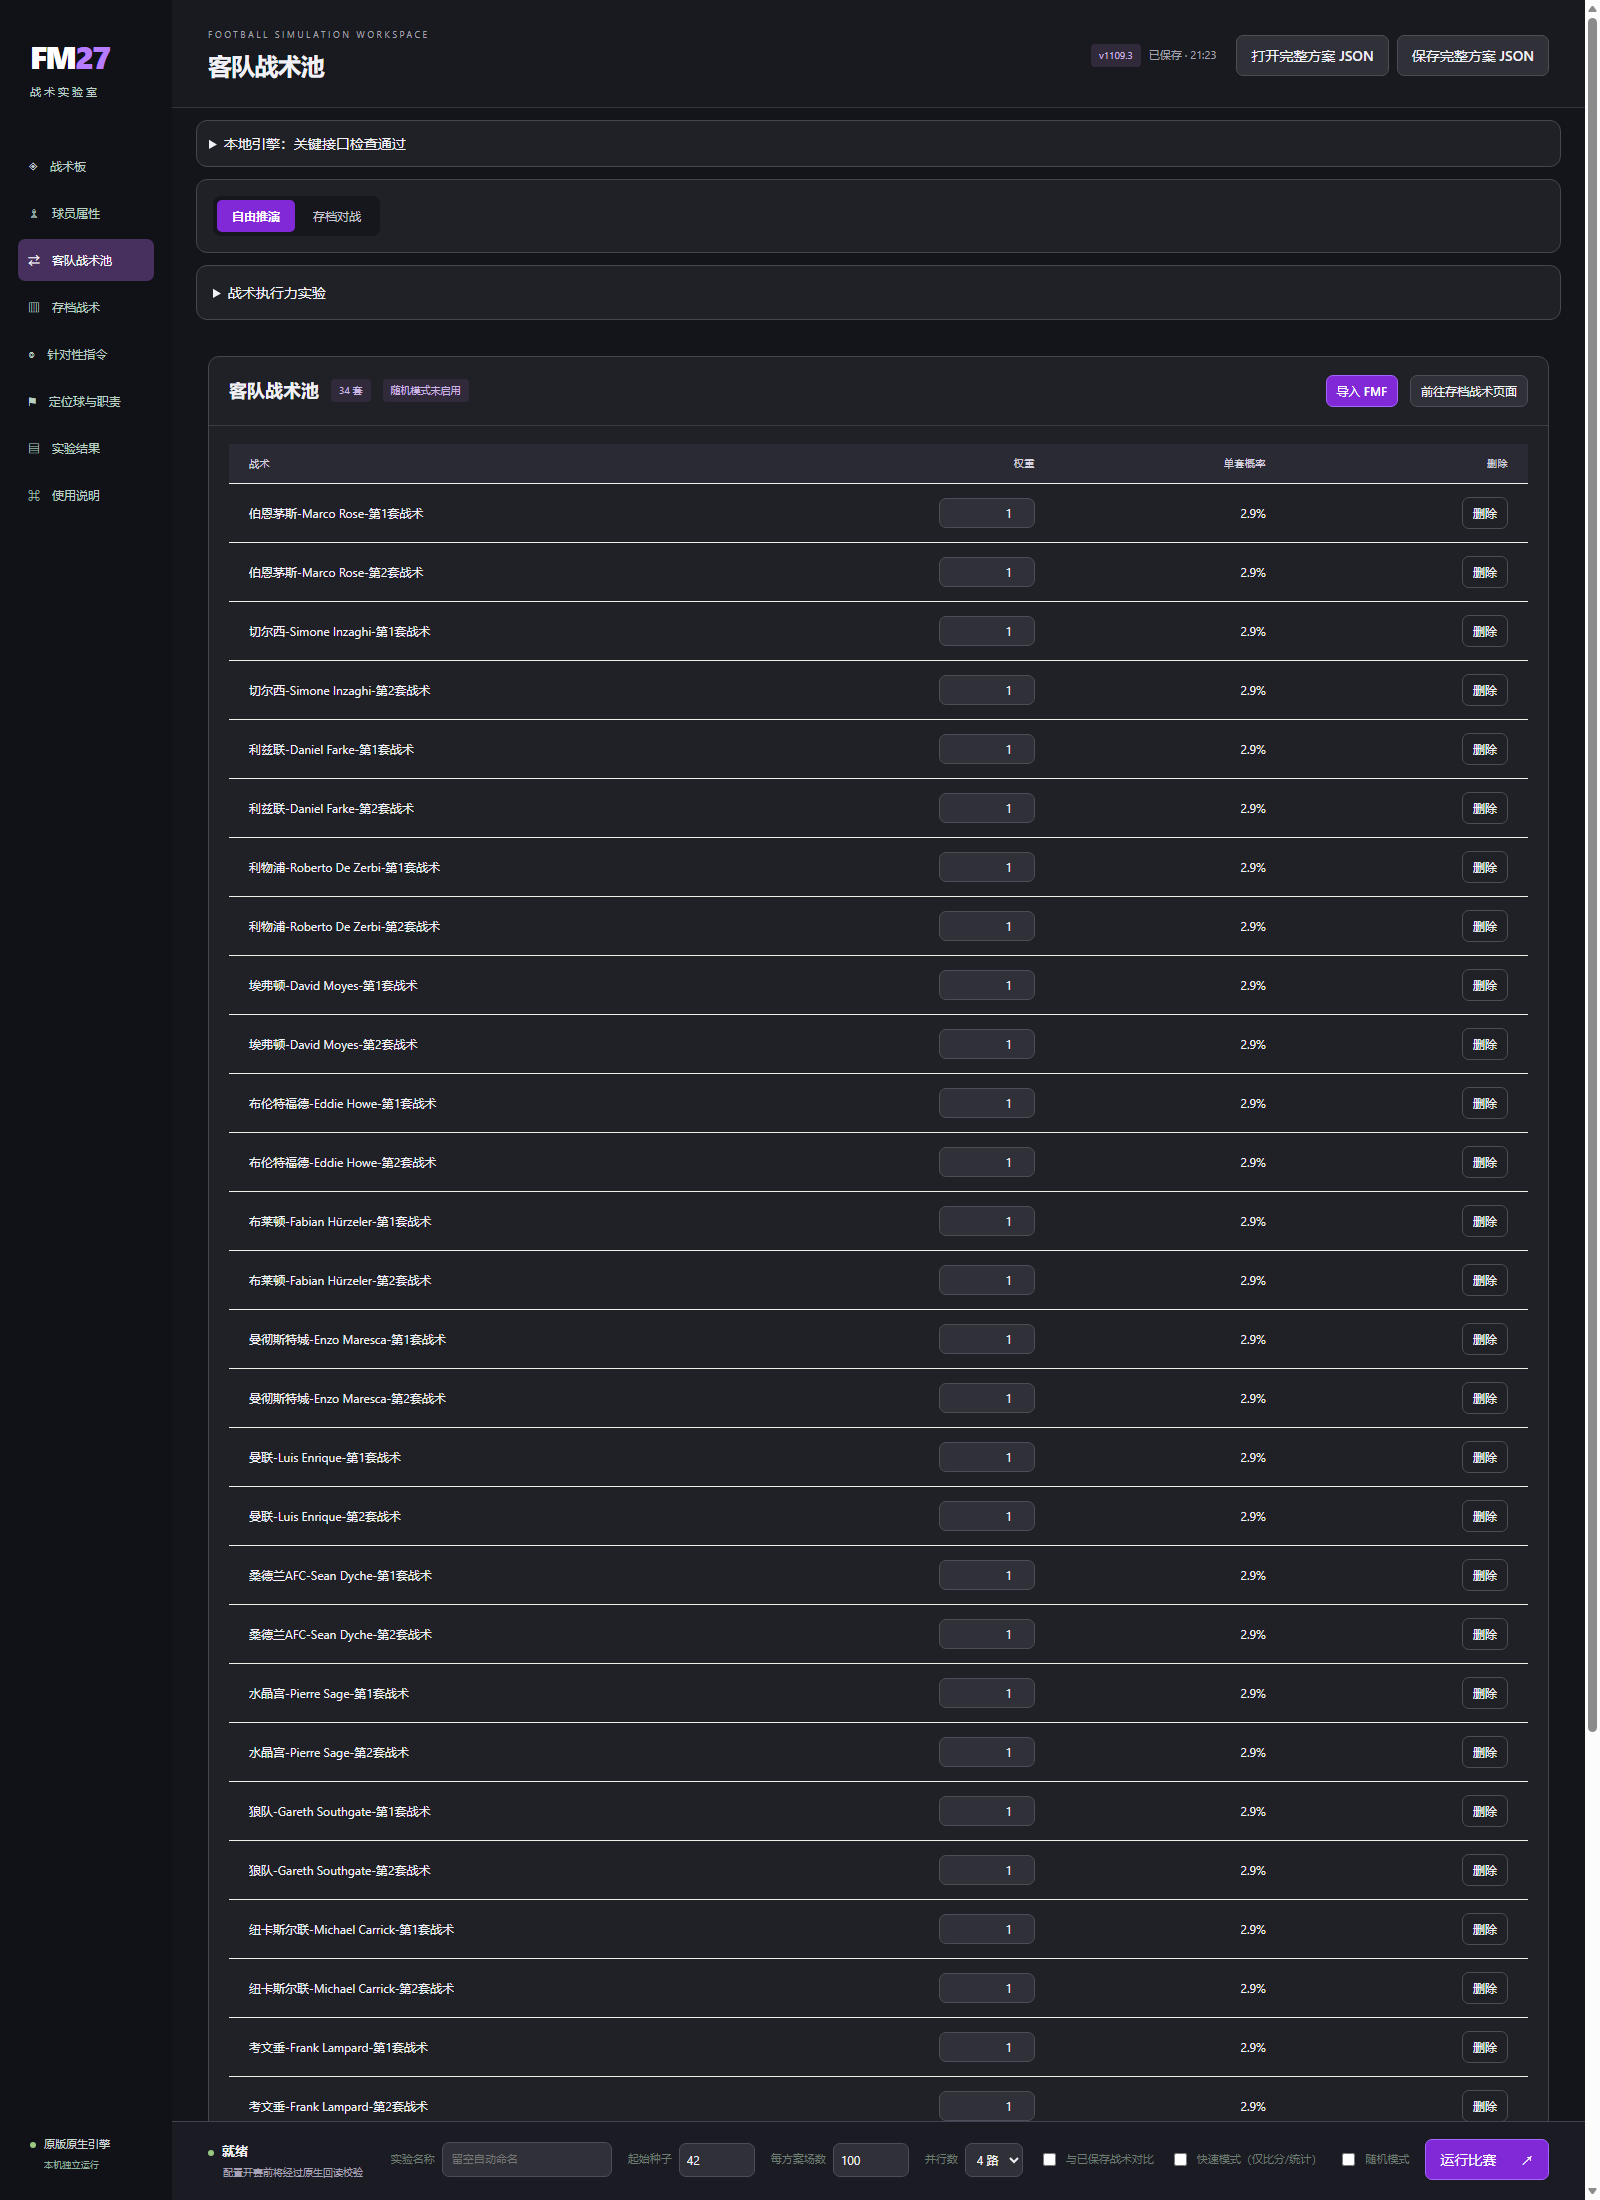
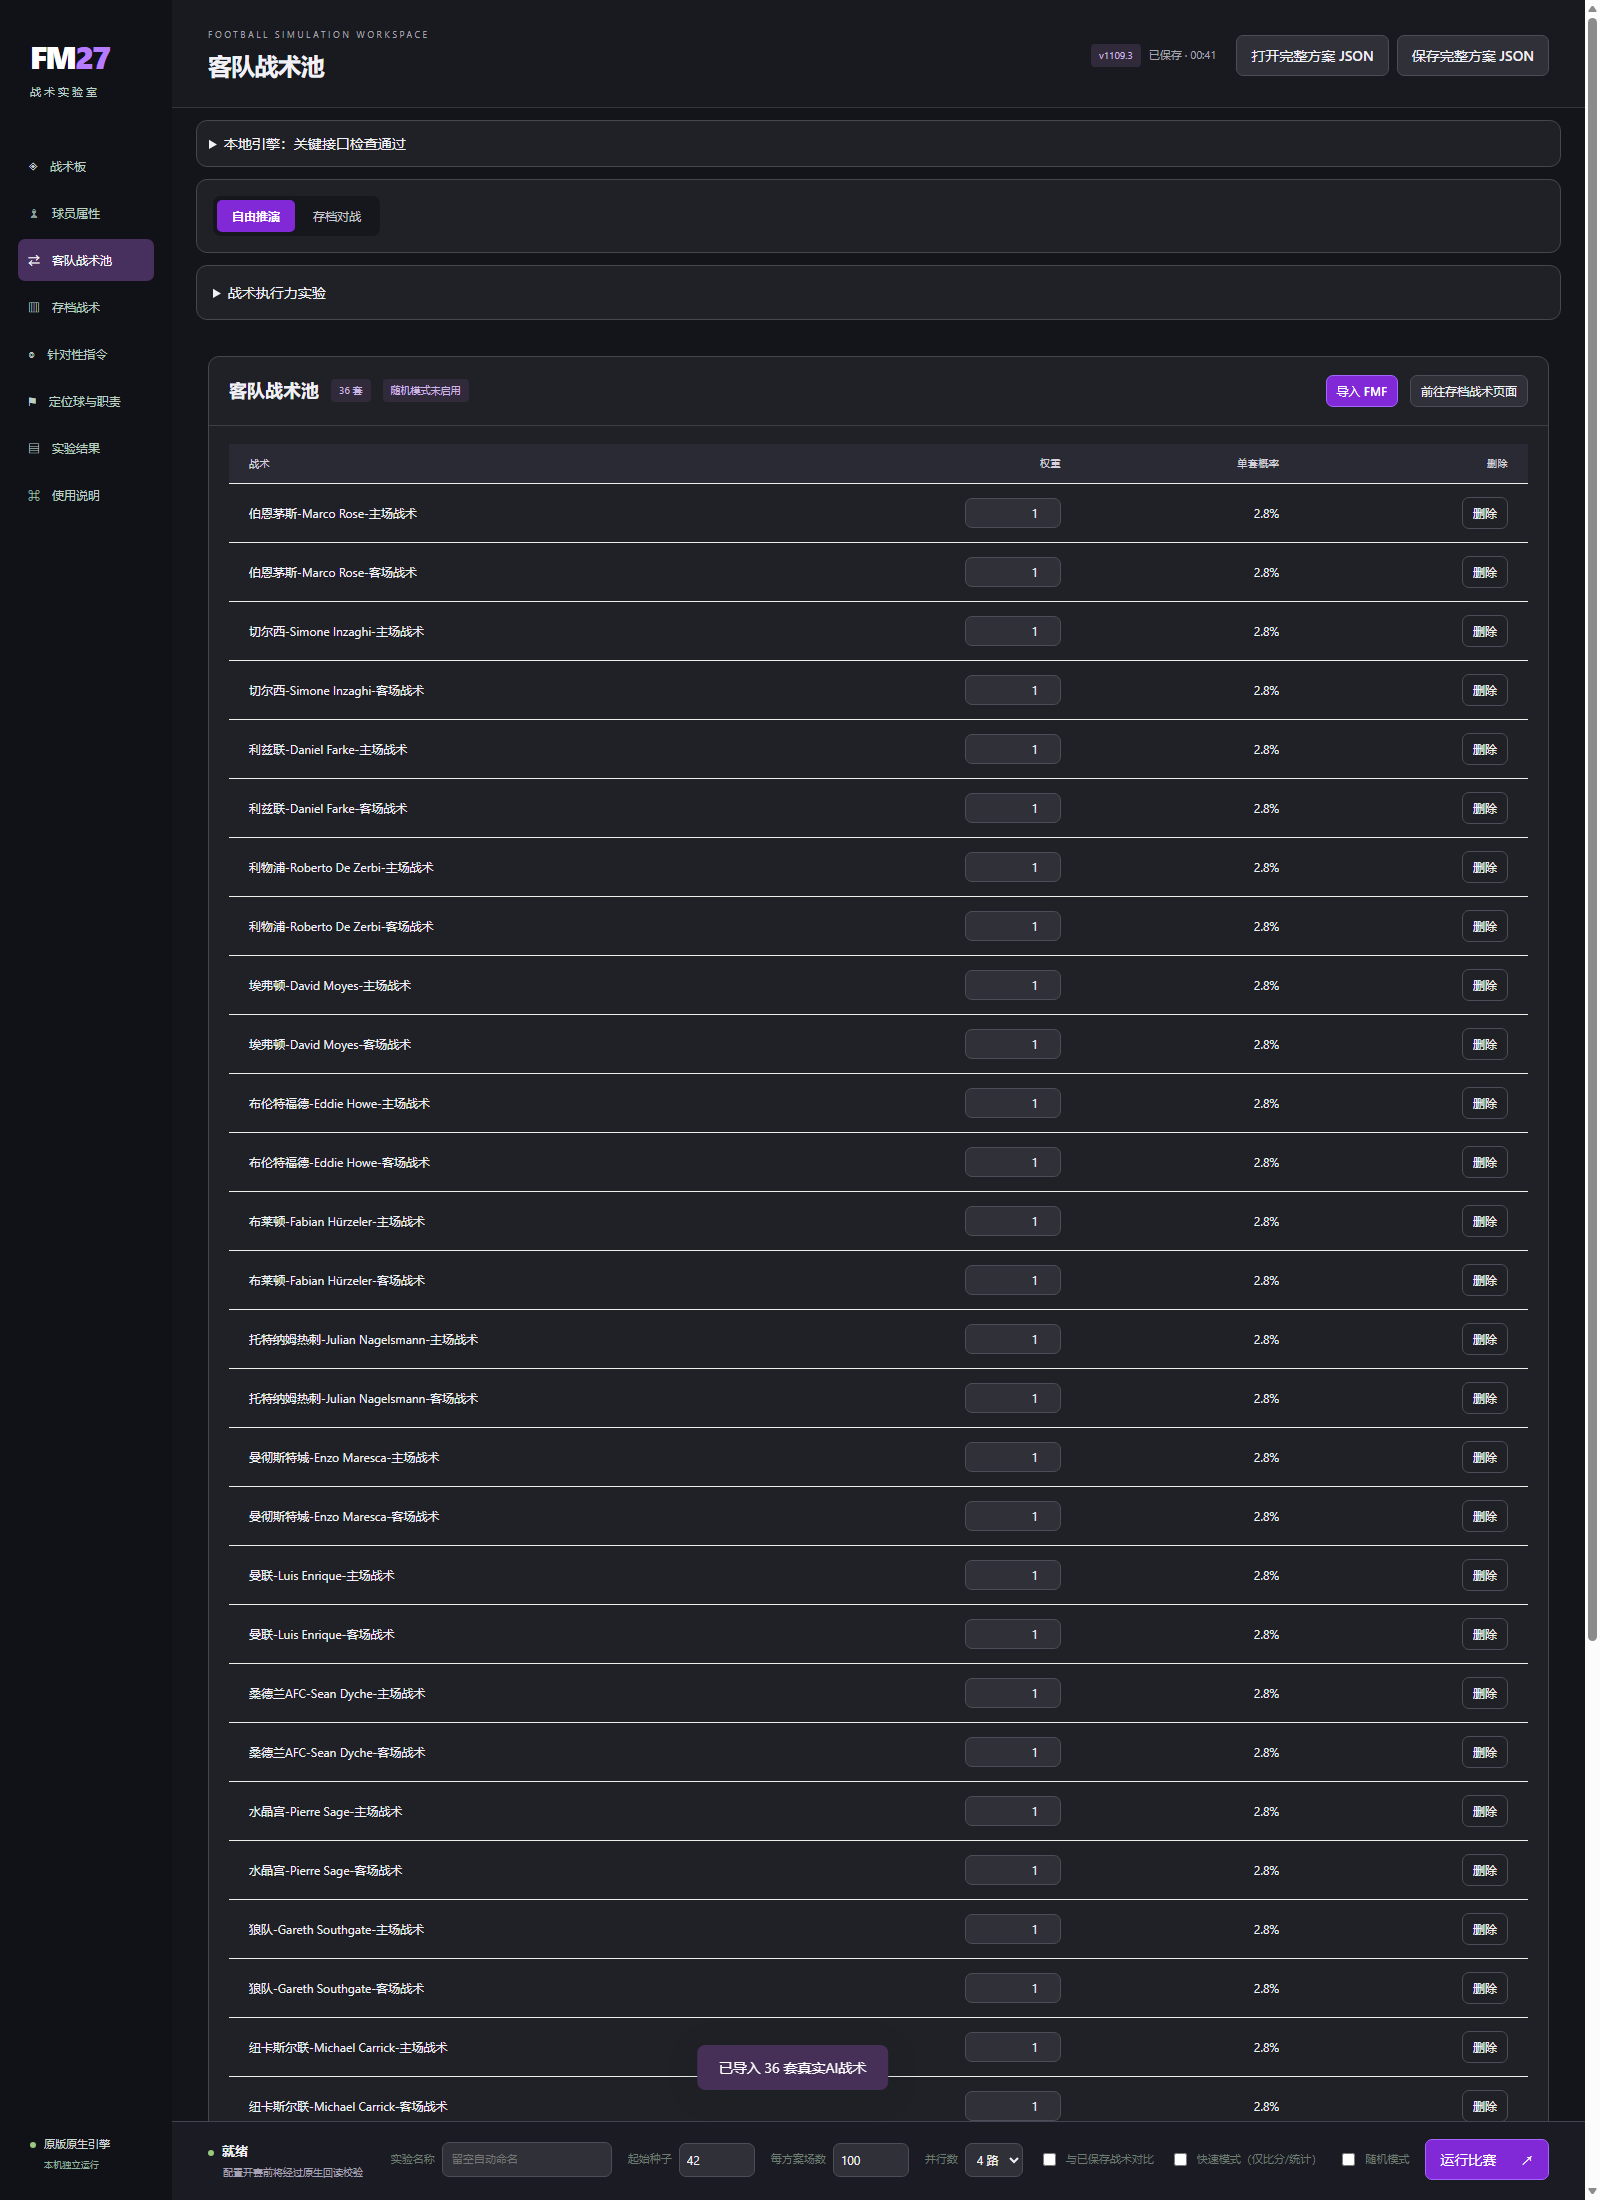
docs: refresh save tactic screenshots for real AI tactics
- Replace the save tactic and away pool screenshots with the generated real-tactic UI (club home/away naming, 36 generated entries).
- Add a batch generation progress screenshot and include it in the public source allowlist.
- Reference the progress screenshot from both READMEs.

diff --git a/scripts/export_source.py b/scripts/export_source.py
@@ -15,7 +15,7 @@ TYPES = {'src': {'.py', '.js', '.css', '.html'},
 NATIVE_JSON = {'native/profile_metadata.json', 'native/adapter_version.json'}
 SCREENSHOTS = {'docs/screenshots/tactics.png', 'docs/screenshots/players.png',
                'docs/screenshots/results.png', 'docs/screenshots/save-tactics.png',
-               'docs/screenshots/away-pool.png'}
+               'docs/screenshots/save-tactics-progress.png', 'docs/screenshots/away-pool.png'}
 FORBIDDEN = {'engine_compat_profile.h', 'engine_compat_profile.json'}
 
 

diff --git a/README.en.md b/README.en.md
@@ -68,6 +68,8 @@ On **存档战术** (Save Tactics), read a save, then pick any loaded league in 
 
 Opponents in your current league can also batch-generate **real AI tactics**: for each club the tool reads its current head coach, current squad and your own coach, runs the original engine's zero-tick match preparation, and reads back the AI-generated two-phase plan (mentality, team instructions, roles and duties, player instructions and phase mapping). Every opponent produces two plans - tactic 1 for the opponent at home and tactic 2 for the opponent away - and they replace the two list columns (shown as `club home tactic` / `club away tactic`). Generation shows a progress bar, caches finished variants and only fills gaps on later runs. Export as `club-coach-home tactic.fmf` or `club-coach-away tactic.fmf` or import straight into the away tactic pool. This is the engine's real output for the preview context (seed 0), not a recording of a finished match; a real fixture regenerates the plan from its own squad and context. Clubs whose coach profile falls outside the engine's supported range keep their presets and show the failure reason.
 
+![Batch real AI tactic generation progress](docs/screenshots/save-tactics-progress.png)
+
 ## Free Simulation
 
 ### 1. Configure both squads

diff --git a/README.md b/README.md
@@ -74,6 +74,8 @@ EXE 自带 Python 运行环境，玩家无需安装 Python 或编译工具。双
 
 你当前执教联赛的球队还可以批量生成**真实AI战术**：读取每队现任主教练、当前阵容和你自己的主教练，用本机原版引擎做 0 tick 对局准备，从引擎回读 AI 生成的完整双阶段战术（心态、球队指令、角色职责、个人指令和阶段映射）。每个对手生成两套：第1套为对手主场战术、第2套为对手客场战术，完成后直接替换列表中的第1套、第2套（显示为`球队主场战术`/`球队客场战术`）。生成时显示进度条，已生成的结果会缓存，重新生成只补齐缺失项；可导出为`俱乐部-教练-主场战术.fmf`/`俱乐部-教练-客场战术.fmf`，或一键导入客队战术池。它是引擎在该对局上下文（预览种子 0）下的真实输出，不是存档中已结束比赛的录像；正式比赛会按实际名单和对局上下文重新生成。主教练档案超出原版生成范围的球队会保留预设并显示失败原因。
 
+![批量生成真实AI战术进度](docs/screenshots/save-tactics-progress.png)
+
 ## 自由推演
 
 ### 1. 准备球队
